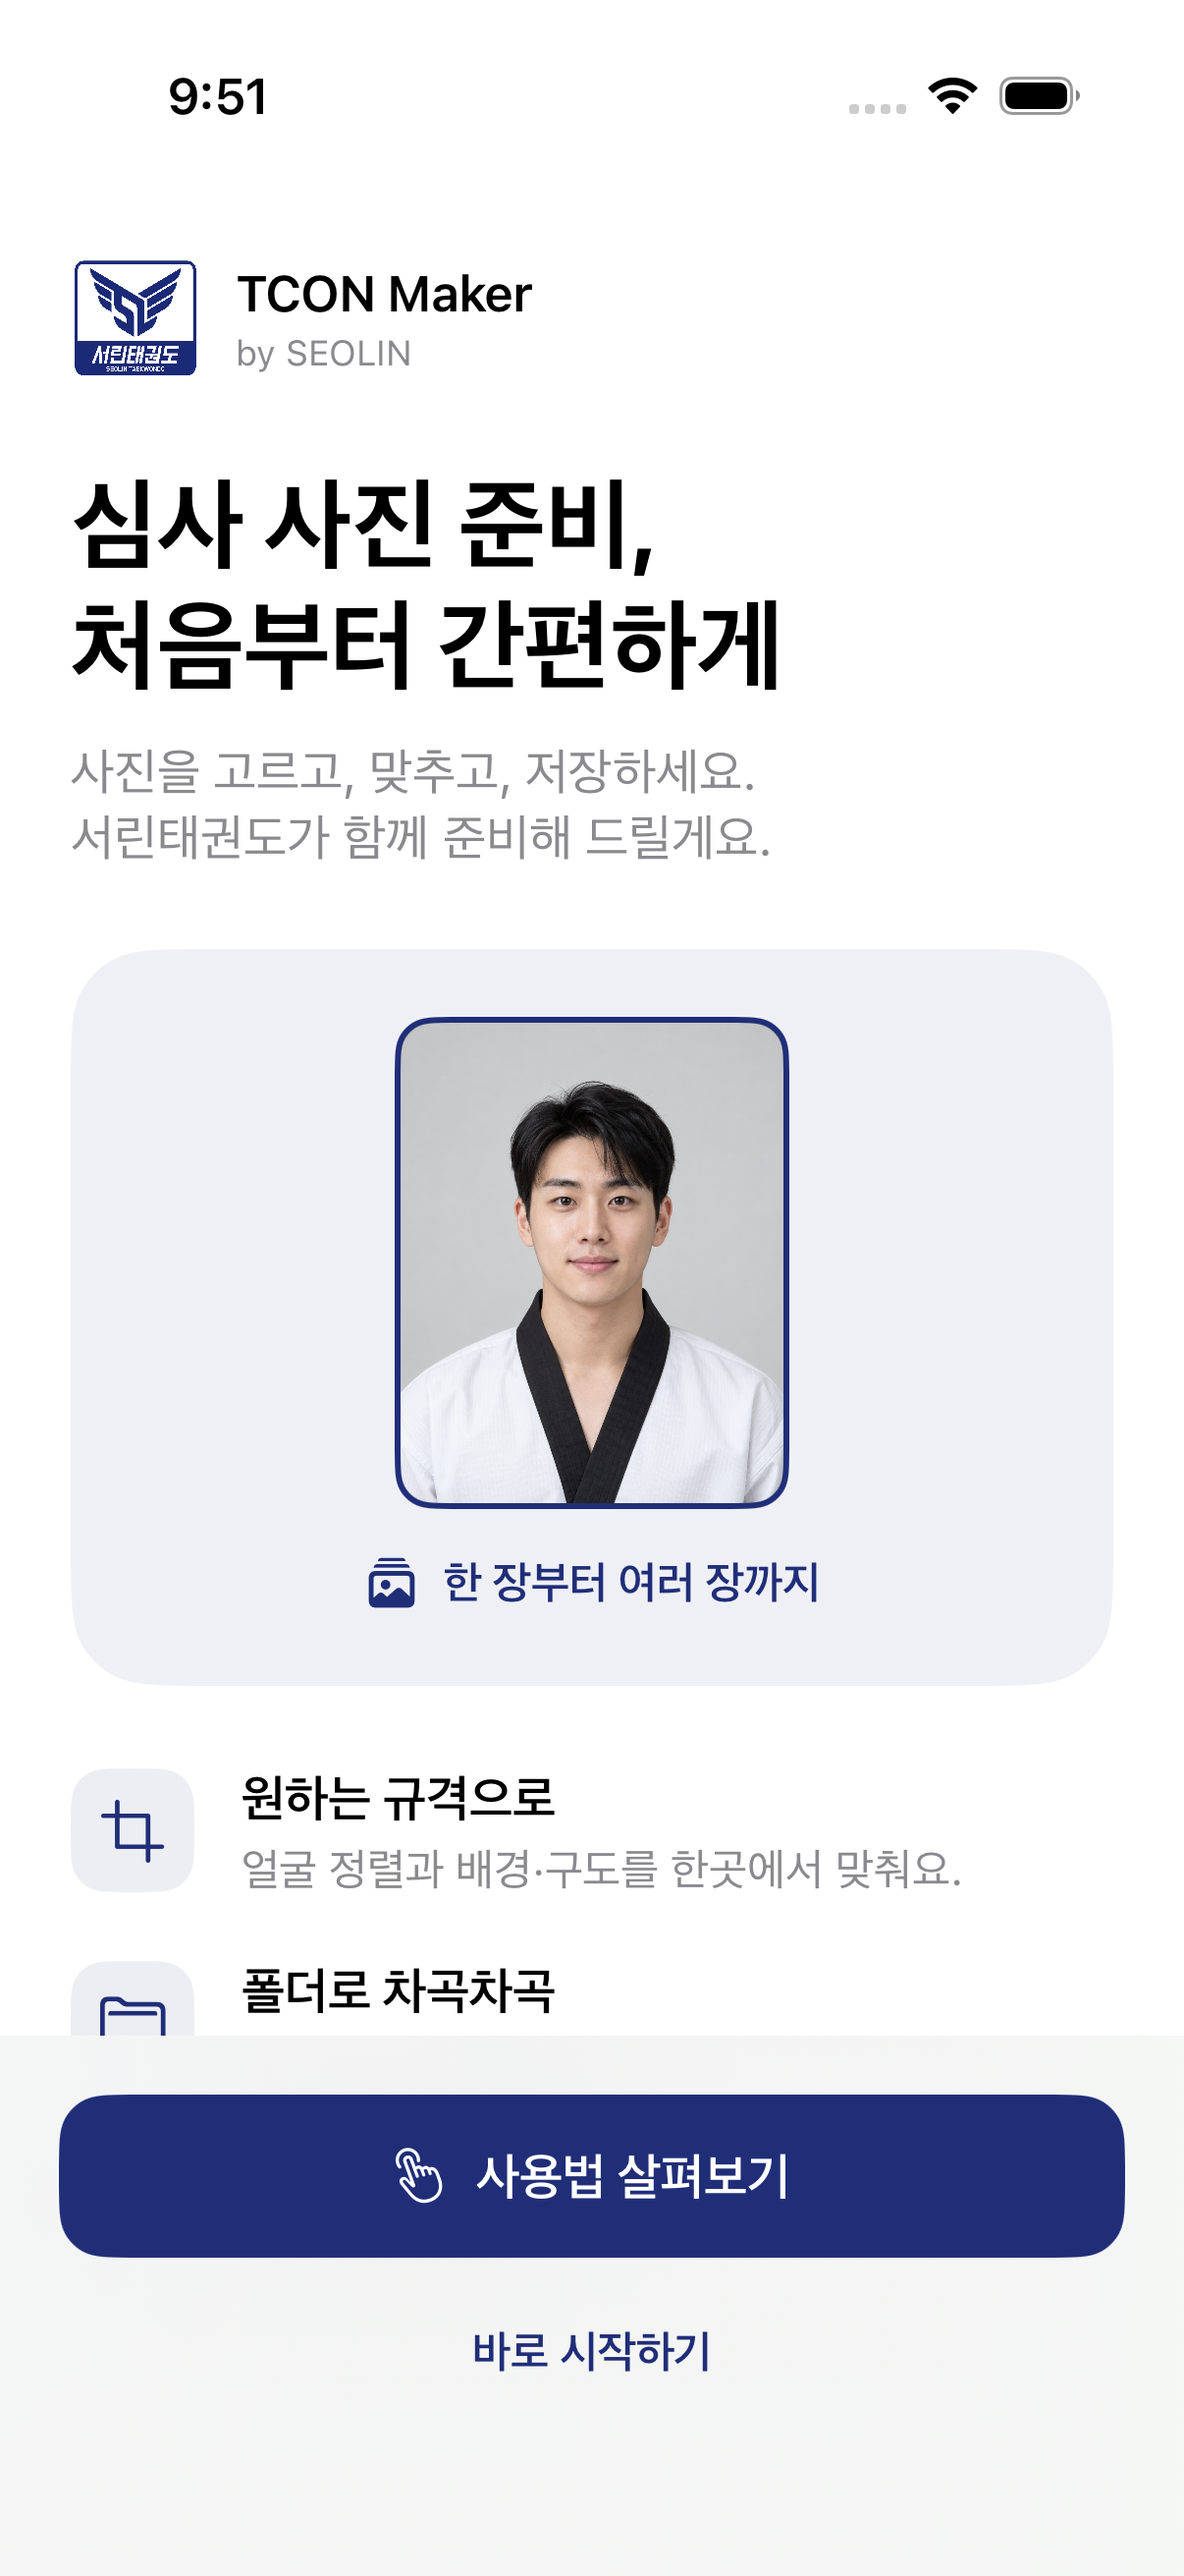
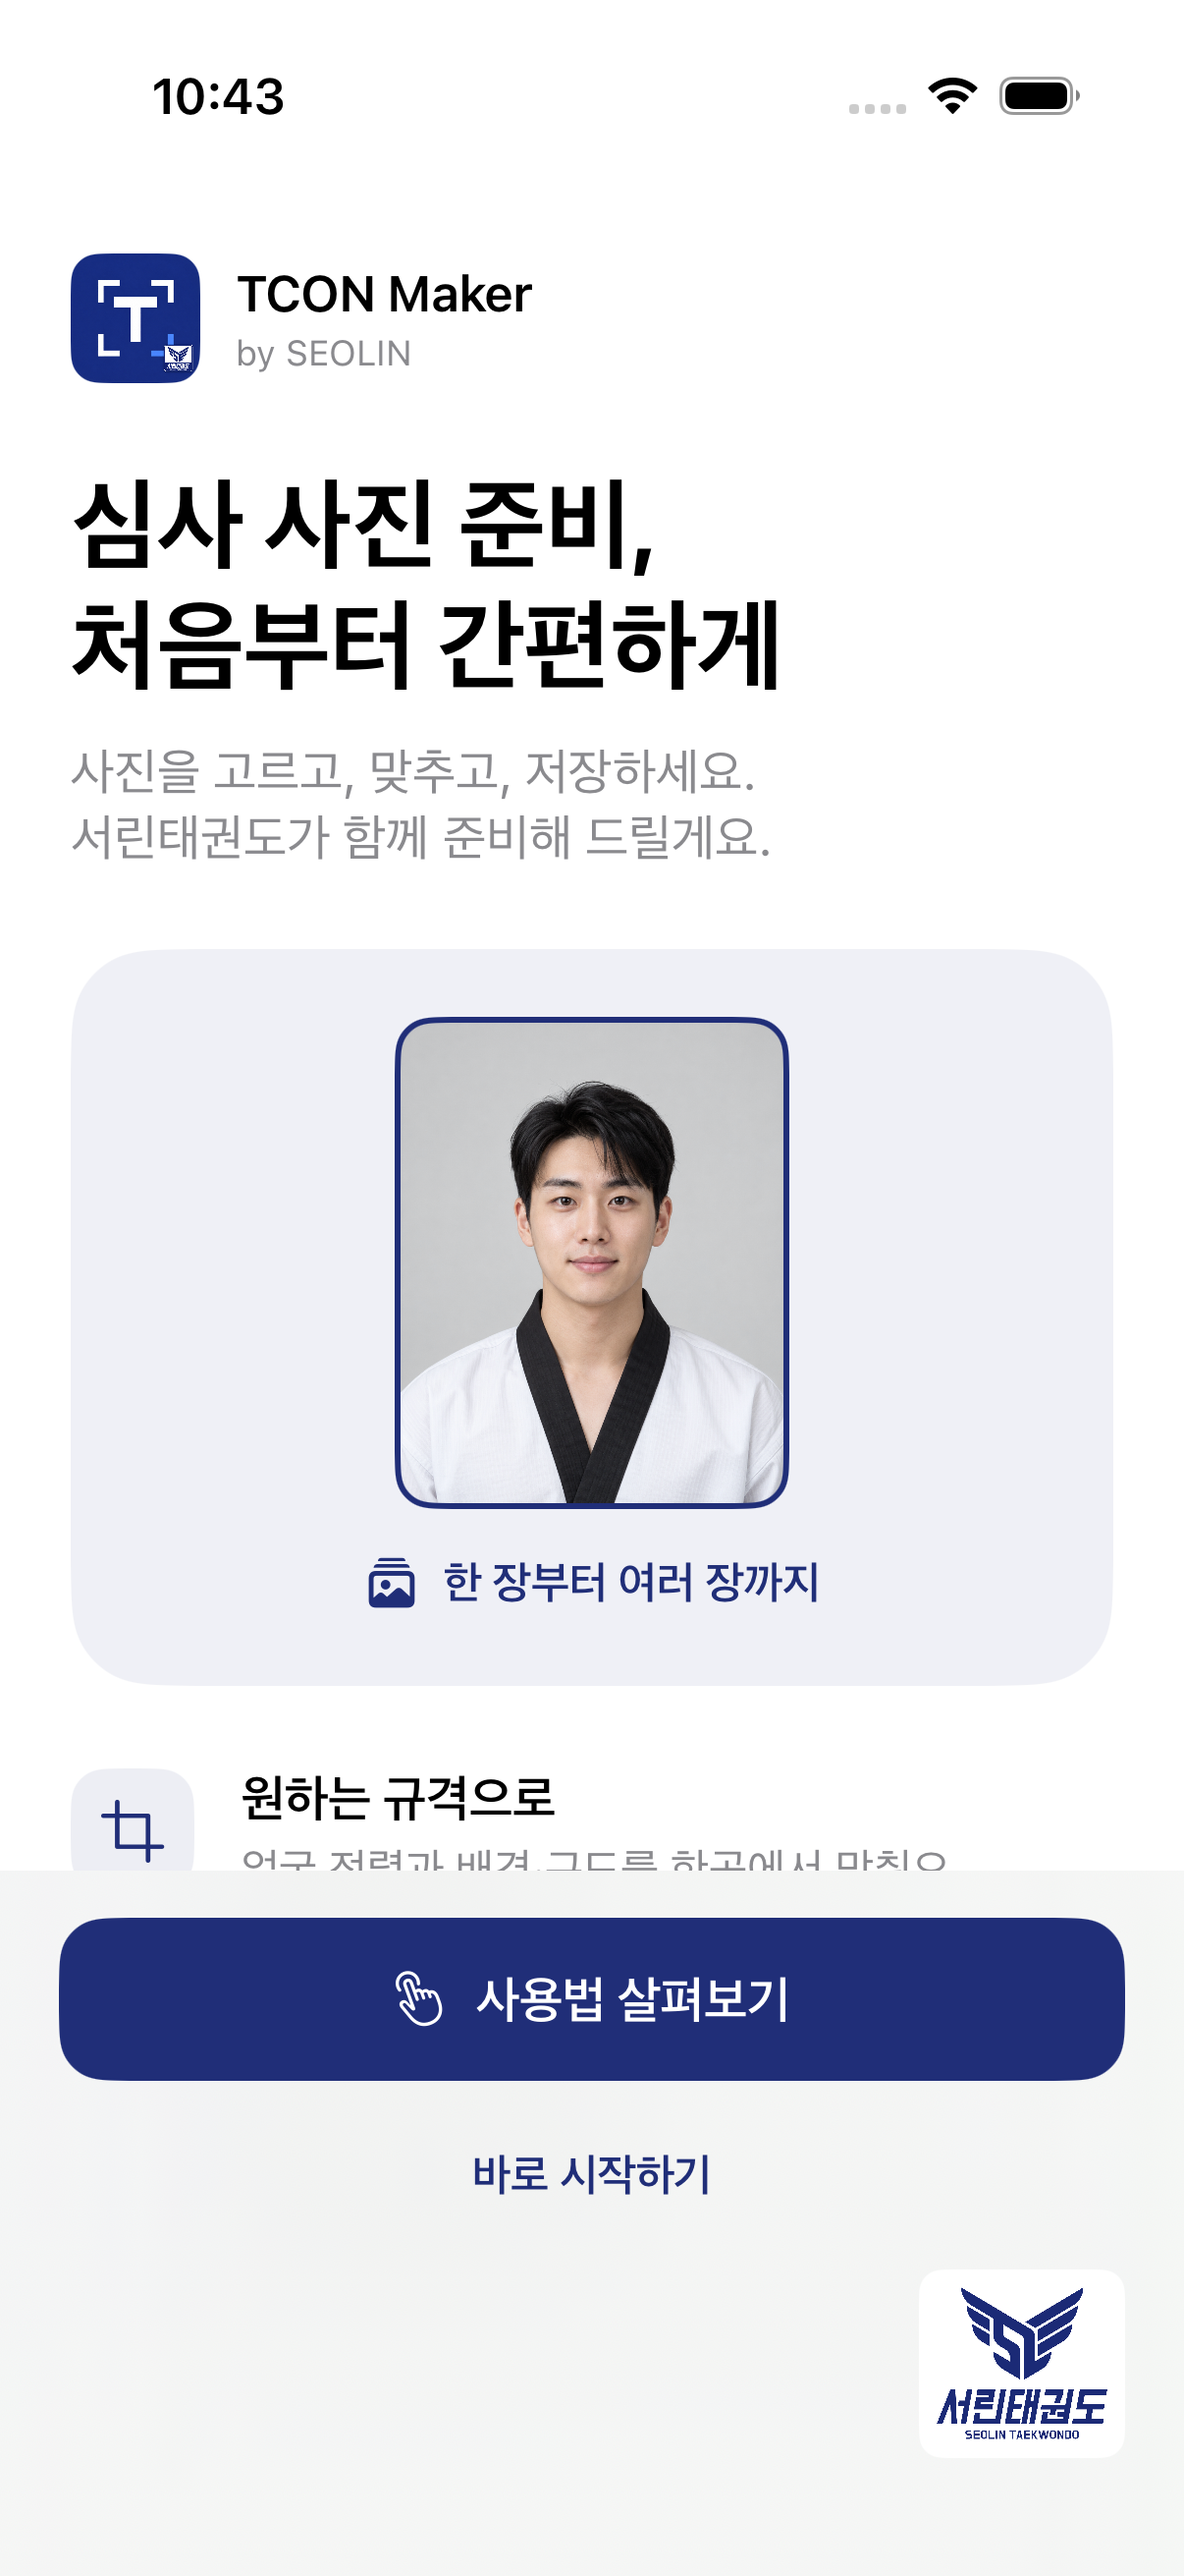
[docs] 최종 로고 화면과 검증 결과 기록

Changed region(s): [[0.0307, 0.7414, 0.9511, 0.9577], [0.0614, 0.0927, 0.1841, 0.1545], [0.1227, 0.0309, 0.2454, 0.0618]]

diff --git a/Docs/VALIDATION.md b/Docs/VALIDATION.md
@@ -67,3 +67,22 @@ App/Core/Features/Shared/Resources로 실제 폴더와 Xcode 그룹을 일치시
 - 예시 화면은 사진 접근 권한을 요청하거나 실제 파일을 저장하지 않음
 
 화면 캡처 `Design/Implemented/10-onboarding.png`부터 `14-tutorial-save.png`까지를 보관했습니다. 환영 화면의 두 진입 버튼, 규격 선택 강조, 폴더 생성, 다중 선택과 저장 안내를 검토했습니다.
+
+
+## 사진 처리 최적화·브랜드 적용 — 이슈 #21·#22
+
+2026-10-12, Xcode 27.0 / iPhone 17 Pro / iOS 26.5에서 확인했습니다.
+
+- 모델·보관함·사진 엔진 테스트 9개와 화면 흐름 테스트 6개: 서로 다른 자동 테스트 **15개 통과**
+- 최종 아이콘·홈 하단 배치 조정 후 홈·설정 및 첫 실행 온보딩 테스트 2개 재검증 통과
+- 유효한 캐시로 복구할 때 얼굴·배경 분석 재실행 없이 한 번만 디코딩·미리보기 생성
+- 캐시 복구 전후 미리보기와 원본 해상도 JPG 내보내기의 바이트 일치 확인
+- 손상되거나 없는 캐시는 기존 분석 경로로 복구하고 동일한 결과 출력
+- 개별 보정 시 원본 재디코딩 생략, 안내선 변경 시 미리보기 재생성 생략
+- 성능 측정 범위·시뮬레이터 수치는 [사진 처리 성능](PERFORMANCE.md)에 기록
+- 기존 T 심벌과 네 모서리를 유지하고 서린 표장을 우측 하단에 겹친 앱 아이콘 적용
+- 홈·온보딩의 오른쪽 하단 서린 원본 로고와 버튼 배치 캡처 검토
+- 홈의 사진 선택·촬영 버튼을 하단에 고정해 스크롤 위치와 관계없이 접근 가능
+- 최종 소스로 iOS 시뮬레이터 Debug 및 일반 iOS 기기 Release 빌드 성공 (코드 서명 제외)
+
+최종 캡처는 `Design/Implemented/01-start.png`, `10-onboarding.png`에 보관했습니다. 실제 기기에서의 처리 시간은 별도 측정이 필요하며, 처음 가져오는 사진에는 얼굴·배경 분석이 수행됩니다.
